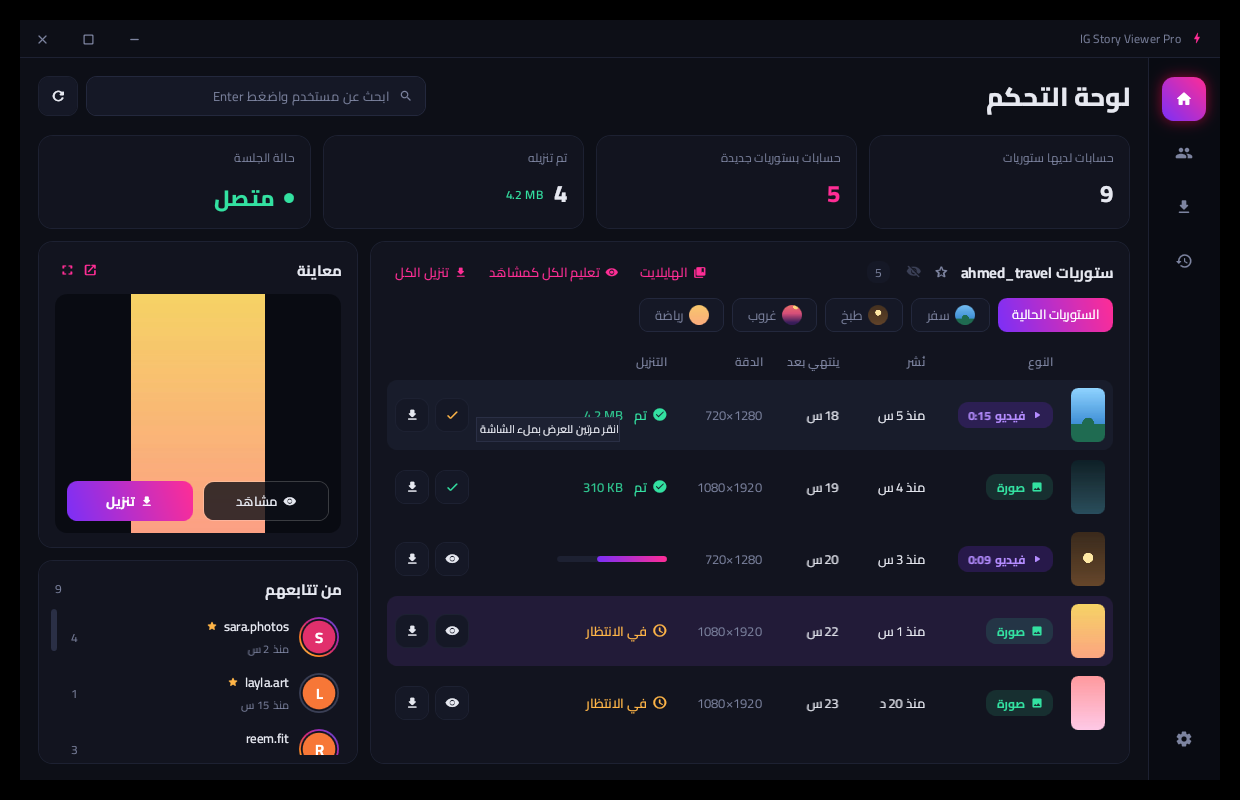
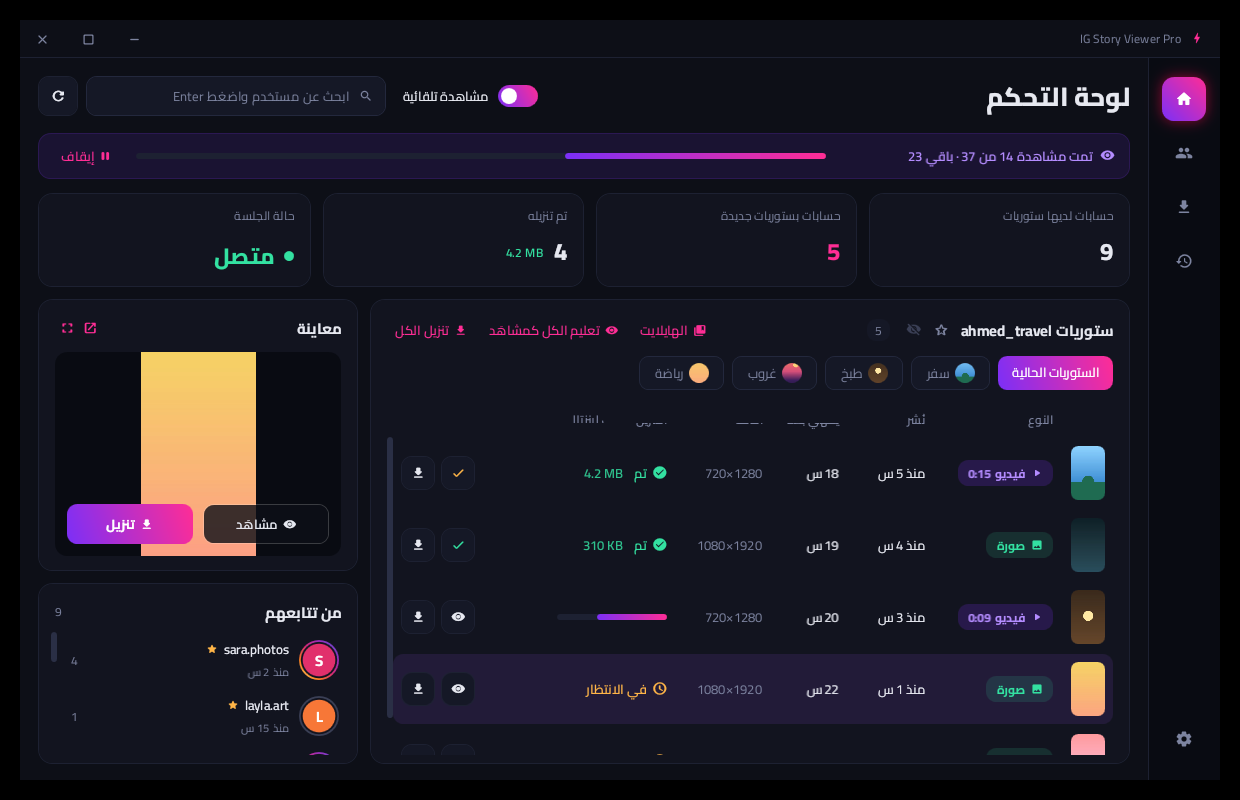
Auto-watch: one-click dashboard toggle and live progress bar
- "Auto-watch" checkbox on the dashboard header (same setting as in
  Settings): once on, every new story of followed accounts is watched
  without any interaction, and new ones after each refresh.
- A pass now covers all accounts with new stories (not just the first
  20), in chunks of 10 that are verified and recorded as they go.
- Progress strip: "watched X of Y · Z remaining", updated after every
  story, with a Stop button; unticking the box stops immediately.

Claude-Session: https://claude.ai/code/session_01Lqr3AeYDn2tMnsFmqKGosk

diff --git a/src/InstagramStoryViewer.Gui/Views/MainWindow.xaml b/src/InstagramStoryViewer.Gui/Views/MainWindow.xaml
@@ -86,12 +86,16 @@
                     <Grid.RowDefinitions>
                         <RowDefinition Height="Auto" />
                         <RowDefinition Height="Auto" />
+                        <RowDefinition Height="Auto" />
                         <RowDefinition Height="*" />
                     </Grid.RowDefinitions>
 
                     <DockPanel Grid.Row="0">
                         <StackPanel DockPanel.Dock="Right" Orientation="Horizontal">
-                            <TextBox Style="{StaticResource SearchBox}" Width="340" Tag="ابحث عن مستخدم واضغط Enter"
+                            <!-- one-click auto-watch: watches every new story without any interaction -->
+                            <CheckBox IsChecked="{Binding AutoWatchNew}" Content="مشاهدة تلقائية" VerticalAlignment="Center" Margin="0,0,16,0"
+                                      ToolTip="عند التفعيل يشاهد البرنامج كل الستوريات الجديدة لمن تتابعهم تلقائياً، ثم يكمل مع كل جديد" />
+                            <TextBox Style="{StaticResource SearchBox}" Width="300" Tag="ابحث عن مستخدم واضغط Enter"
                                      Text="{Binding SearchText, UpdateSourceTrigger=PropertyChanged}">
                                 <TextBox.InputBindings>
                                     <KeyBinding Key="Enter" Command="{Binding SearchCommand}" />
@@ -111,14 +115,7 @@
                                     <TextBlock Text="{Binding UpdateText}" FontSize="12" />
                                 </StackPanel>
                             </Button>
-                            <Border Margin="14,0,0,0" CornerRadius="10" Padding="10,3" VerticalAlignment="Center" Background="#337B2FF7"
-                                    Visibility="{Binding IsAutoWatching, Converter={StaticResource Vis}}">
-                                <StackPanel Orientation="Horizontal">
-                                    <TextBlock Style="{StaticResource Icon}" Text="&#xE8F4;" FontSize="13" Foreground="{StaticResource VideoPillText}" Margin="0,0,6,0" />
-                                    <TextBlock Text="مشاهدة تلقائية..." FontSize="12" FontWeight="SemiBold" Foreground="{StaticResource VideoPillText}" />
-                                </StackPanel>
-                            </Border>
-                            <Border Margin="8,0,0,0" CornerRadius="10" Padding="10,3" VerticalAlignment="Center" Background="#33FF2D95"
+                            <Border Margin="14,0,0,0" CornerRadius="10" Padding="10,3" VerticalAlignment="Center" Background="#33FF2D95"
                                     Visibility="{Binding IsAutoLiking, Converter={StaticResource Vis}}">
                                 <StackPanel Orientation="Horizontal">
                                     <TextBlock Style="{StaticResource Icon}" Text="&#xE87D;" FontSize="13" Foreground="{StaticResource PinkBrush}" Margin="0,0,6,0" />
@@ -128,8 +125,29 @@
                         </StackPanel>
                     </DockPanel>
 
+                    <!-- auto-watch progress (only while it runs) -->
+                    <Border Grid.Row="1" Margin="0,12,0,0" CornerRadius="12" Padding="14,8" Background="#1F7B2FF7"
+                            BorderBrush="#447B2FF7" BorderThickness="1"
+                            Visibility="{Binding IsAutoWatching, Converter={StaticResource Vis}}">
+                        <DockPanel>
+                            <Button DockPanel.Dock="Right" Style="{StaticResource LinkButton}" Command="{Binding StopAutoWatchCommand}" Padding="8,2">
+                                <StackPanel Orientation="Horizontal">
+                                    <TextBlock Style="{StaticResource Icon}" Text="&#xE034;" FontSize="14" Margin="0,0,4,0" />
+                                    <TextBlock Text="إيقاف" />
+                                </StackPanel>
+                            </Button>
+                            <StackPanel DockPanel.Dock="Left" Orientation="Horizontal" VerticalAlignment="Center">
+                                <TextBlock Style="{StaticResource Icon}" Text="&#xE8F4;" FontSize="15" Foreground="{StaticResource VideoPillText}" Margin="0,0,8,0" />
+                                <TextBlock Text="{Binding AutoWatchProgressText}" FontWeight="SemiBold" Foreground="{StaticResource VideoPillText}"
+                                           VerticalAlignment="Center" MinWidth="250" />
+                            </StackPanel>
+                            <ProgressBar Height="6" Margin="16,0" VerticalAlignment="Center"
+                                         Maximum="{Binding AutoWatchTotal}" Value="{Binding AutoWatchDone, Mode=OneWay}" />
+                        </DockPanel>
+                    </Border>
+
                     <!-- stats -->
-                    <Grid Grid.Row="1" Margin="0,14,0,0">
+                    <Grid Grid.Row="2" Margin="0,14,0,0">
                         <Grid.ColumnDefinitions>
                             <ColumnDefinition /><ColumnDefinition /><ColumnDefinition /><ColumnDefinition />
                         </Grid.ColumnDefinitions>
@@ -191,7 +209,7 @@
                     </Grid>
 
                     <!-- main area -->
-                    <Grid Grid.Row="2" Margin="0,12,0,0">
+                    <Grid Grid.Row="3" Margin="0,12,0,0">
                         <Grid.ColumnDefinitions>
                             <ColumnDefinition Width="*" />
                             <ColumnDefinition Width="12" />

diff --git a/src/InstagramStoryViewer.Gui/ViewModels/MainViewModel.Watch.cs b/src/InstagramStoryViewer.Gui/ViewModels/MainViewModel.Watch.cs
@@ -68,13 +68,13 @@ public sealed partial class MainViewModel
     /// Every attempt is written to the watch history. Returns how many were shown and not contradicted
     /// by Instagram (verified, or unknown when Instagram gave no "seen" marker).
     /// </summary>
-    private async Task<int> WatchAsync(IReadOnlyList<WatchTarget> targets, WatchMode mode)
+    private async Task<int> WatchAsync(IReadOnlyList<WatchTarget> targets, WatchMode mode, Action<int>? onShown = null)
     {
         if (_client is null || targets.Count == 0) return 0;
         var urls = targets.Select(t => StoryUrl(t.Username, t.Item)).ToList();
         AppLog.Info($"Watch start: {targets.Count} stories, mode {mode}");
 
-        var shown = await _dialogs.WatchStoriesAsync(_client.Cookies.ToHeader(), urls, background: mode != WatchMode.Manual);
+        var shown = await _dialogs.WatchStoriesAsync(_client.Cookies.ToHeader(), urls, background: mode != WatchMode.Manual, onShown);
         var verified = await VerifySeenAsync(targets.Where((_, i) => i < shown.Count && shown[i]).ToList());
 
         var records = new List<WatchRecord>();
@@ -189,19 +189,57 @@ public sealed partial class MainViewModel
     /// the daily limit, outside quiet hours and never for excluded accounts. Stories newer than the
     /// reel's "seen" marker are the unseen ones.
     /// </summary>
+    private const int AutoWatchChunk = 10;
+    private CancellationTokenSource? _autoWatchCts;
+
+    // Live progress of the running auto-watch (shown on the dashboard).
+    [ObservableProperty]
+    [NotifyPropertyChangedFor(nameof(AutoWatchProgressText), nameof(AutoWatchRemaining))]
+    private int _autoWatchDone;
+
+    [ObservableProperty]
+    [NotifyPropertyChangedFor(nameof(AutoWatchProgressText), nameof(AutoWatchRemaining))]
+    private int _autoWatchTotal;
+
+    public int AutoWatchRemaining => Math.Max(0, AutoWatchTotal - AutoWatchDone);
+
+    public string AutoWatchProgressText => AutoWatchTotal == 0
+        ? "جاري تجهيز قائمة الستوريات..."
+        : $"تمت مشاهدة {AutoWatchDone} من {AutoWatchTotal} · باقي {AutoWatchRemaining}";
+
+    /// <summary>Stops the running auto-watch immediately (the setting stays on for the next refresh).</summary>
+    [RelayCommand]
+    private void StopAutoWatch()
+    {
+        _autoWatchCts?.Cancel();
+        _dialogs.StopWatching();
+    }
+
+    /// <summary>
+    /// Background auto-watch: plays every unseen story of followed accounts in the corner window, without
+    /// any interaction, in chunks of <see cref="AutoWatchChunk"/> (each chunk is verified and recorded before
+    /// the next). Bounded by the daily limit, quiet hours and the exclusion list. Stories newer than the
+    /// reel's "seen" marker are the unseen ones.
+    /// </summary>
     private async Task RunAutoWatchAsync()
     {
         if (!AutoWatchNew || IsAutoWatching || _client is null || IsQuietNow) return;
         var budget = AutoWatchBudget;
         if (budget == 0) return;
 
-        var candidates = TrayUsers.Where(u => u.HasUnseen && !IsExcluded(u.UserId)).Take(20).ToList();
+        var candidates = TrayUsers.Where(u => u.HasUnseen && !IsExcluded(u.UserId)).ToList();
         if (candidates.Count == 0) return;
 
+        _autoWatchCts = CancellationTokenSource.CreateLinkedTokenSource(_lifetimeCts.Token);
+        var ct = _autoWatchCts.Token;
+        AutoWatchDone = 0;
+        AutoWatchTotal = 0;
         IsAutoWatching = true;
+        var watchedTotal = 0;
         try
         {
-            var reels = await _client.GetStoriesForUsersAsync(candidates.Select(t => t.UserId), _lifetimeCts.Token);
+            // One reels request per 20 accounts gives the full list (and the total for the progress bar).
+            var reels = await _client.GetStoriesForUsersAsync(candidates.Select(t => t.UserId), ct);
             var queue = new List<WatchTarget>();
             foreach (var reel in reels)
             {
@@ -212,21 +250,24 @@ public sealed partial class MainViewModel
                     queue.Add(new WatchTarget(user.Username, user.UserId, item, Stories.FirstOrDefault(r => r.Item.Pk == item.Pk)));
             }
             queue = queue.Take(budget).ToList();
+            AutoWatchTotal = queue.Count;
             if (queue.Count == 0) return;
+            AppLog.Info($"Auto-watch: {queue.Count} stories from {candidates.Count} accounts");
 
-            var watched = await WatchAsync(queue, WatchMode.Auto);
-            CountAutoWatched(watched);
-
-            // Accounts whose every queued story counted are now fully seen.
-            var history = History.Take(queue.Count).ToList();
-            foreach (var user in candidates)
+            foreach (var chunk in queue.Chunk(AutoWatchChunk))
             {
-                var mine = history.Where(h => h.Username == user.Username).ToList();
-                if (mine.Count > 0 && mine.All(h => h.Outcome is WatchOutcome.Verified or WatchOutcome.Shown))
-                    user.HasUnseen = false;
+                // Turned off, stopped, or quiet hours started: stop between chunks.
+                if (ct.IsCancellationRequested || !AutoWatchNew || IsQuietNow) break;
+
+                var doneBefore = AutoWatchDone;
+                var watched = await WatchAsync(chunk, WatchMode.Auto, shownSoFar => AutoWatchDone = doneBefore + shownSoFar);
+                AutoWatchDone = doneBefore + chunk.Length; // count skipped/unavailable ones as processed too
+                watchedTotal += watched;
+                CountAutoWatched(watched);
+                MarkFullyWatchedAccounts(chunk);
             }
-            UnseenAccounts = TrayUsers.Count(u => u.HasUnseen);
-            if (watched > 0) ShowToast($"المشاهدة التلقائية: شوهد {watched} ستوري");
+
+            if (watchedTotal > 0) _dialogs.Notify("المشاهدة التلقائية", $"تمت مشاهدة {watchedTotal} ستوري");
         }
         catch (InstagramApiException ex)
         {
@@ -234,12 +275,26 @@ public sealed partial class MainViewModel
         }
         catch (OperationCanceledException)
         {
-            // signed out
+            // stopped or signed out
         }
         finally
         {
             IsAutoWatching = false;
+            AppLog.Info($"Auto-watch finished: {watchedTotal} watched, {AutoWatchDone}/{AutoWatchTotal} processed");
         }
+    }
+
+    /// <summary>Accounts whose every queued story counted are no longer shown as having new stories.</summary>
+    private void MarkFullyWatchedAccounts(IReadOnlyList<WatchTarget> chunk)
+    {
+        var recent = History.Take(chunk.Count).ToList();
+        foreach (var name in chunk.Select(c => c.Username).Distinct())
+        {
+            var mine = recent.Where(h => h.Username == name).ToList();
+            if (mine.Count == 0 || !mine.All(h => h.Outcome is WatchOutcome.Verified or WatchOutcome.Shown)) continue;
+            foreach (var u in TrayUsers.Where(u => u.Username == name)) u.HasUnseen = false;
+        }
+        UnseenAccounts = TrayUsers.Count(u => u.HasUnseen);
     }
 
     private void UpdateTraySeen(string username)

diff --git a/src/InstagramStoryViewer.Gui/ViewModels/MainViewModel.cs b/src/InstagramStoryViewer.Gui/ViewModels/MainViewModel.cs
@@ -23,7 +23,12 @@ public interface IDialogService
     /// </summary>
     /// <param name="background">Run in the small corner window without stealing focus (auto-watch).</param>
     /// <returns>For each URL, whether the story was actually shown.</returns>
-    Task<IReadOnlyList<bool>> WatchStoriesAsync(string cookieHeader, IReadOnlyList<string> storyUrls, bool background);
+    /// <param name="onShown">Called after each story is shown, with the number shown so far in this batch.</param>
+    Task<IReadOnlyList<bool>> WatchStoriesAsync(string cookieHeader, IReadOnlyList<string> storyUrls, bool background,
+        Action<int>? onShown = null);
+
+    /// <summary>Stops the watch batch that is currently playing.</summary>
+    void StopWatching();
 
     /// <summary>Likes stories/posts in the small corner window (background, never steals focus).</summary>
     Task<IReadOnlyList<LikeOutcome>> LikeAsync(string cookieHeader, IReadOnlyList<LikeRequest> requests);
@@ -218,6 +223,7 @@ public sealed partial class MainViewModel : ObservableObject, IDisposable
         SaveSettings();
         ScheduleTrayRefresh();
         if (value) _ = SafeAsync(() => RunAutoWatchAsync());
+        else if (IsAutoWatching) StopAutoWatch(); // unticking stops the running pass right away
     }
 
     partial void OnAutoWatchDailyLimitChanged(int value)

diff --git a/src/InstagramStoryViewer.Gui/Views/StoryWatchWindow.xaml.cs b/src/InstagramStoryViewer.Gui/Views/StoryWatchWindow.xaml.cs
@@ -79,8 +79,12 @@ public partial class StoryWatchWindow : Window
 
     private void Stop_Click(object sender, RoutedEventArgs e) => _batchCts.Cancel();
 
+    /// <summary>Stops the batch that is running (same as the window's Stop button).</summary>
+    public void StopCurrent() => _batchCts.Cancel();
+
     /// <summary>Plays the given stories in order. Returns, per URL, whether it was shown.</summary>
-    public async Task<IReadOnlyList<bool>> PlayAsync(string cookieHeader, IReadOnlyList<string> urls)
+    /// <param name="onShown">Called after each story is shown, with the number shown so far (live progress).</param>
+    public async Task<IReadOnlyList<bool>> PlayAsync(string cookieHeader, IReadOnlyList<string> urls, Action<int>? onShown = null)
     {
         _batchCts = new CancellationTokenSource();
         var ct = _batchCts.Token;
@@ -111,6 +115,7 @@ public partial class StoryWatchWindow : Window
                 // Vary the dwell time slightly, like a person would.
                 await Task.Delay(ViewDuration + TimeSpan.FromMilliseconds(Random.Shared.Next(0, 1500)), ct);
                 shown[i] = true;
+                onShown?.Invoke(shown.Count(x => x));
             }
         }
         catch (Exception ex) when (ex is OperationCanceledException or ObjectDisposedException or InvalidOperationException

diff --git a/src/InstagramStoryViewer.Gui/Views/MainWindow.xaml.cs b/src/InstagramStoryViewer.Gui/Views/MainWindow.xaml.cs
@@ -308,8 +308,14 @@ public partial class MainWindow : Window, IDialogService
     /// same window. It has no Owner on purpose, so background watching keeps working while this window is
     /// minimised.
     /// </summary>
-    public Task<IReadOnlyList<bool>> WatchStoriesAsync(string cookieHeader, IReadOnlyList<string> storyUrls, bool background) =>
-        RunInWatcherAsync(w => w.PlayAsync(cookieHeader, storyUrls), background);
+    public Task<IReadOnlyList<bool>> WatchStoriesAsync(string cookieHeader, IReadOnlyList<string> storyUrls, bool background,
+        Action<int>? onShown = null) =>
+        RunInWatcherAsync(w => w.PlayAsync(cookieHeader, storyUrls, onShown), background);
+
+    public void StopWatching()
+    {
+        if (_watcher is { IsAlive: true }) _watcher.StopCurrent();
+    }
 
     public Task<IReadOnlyList<LikeOutcome>> LikeAsync(string cookieHeader, IReadOnlyList<LikeRequest> requests) =>
         RunInWatcherAsync(w => w.LikeAsync(cookieHeader, requests), background: true);

diff --git a/README.md b/README.md
@@ -41,6 +41,9 @@ The interface is in Arabic (right to left) with a dark "neon dashboard" design.
 ### Watching (marking as seen)
 - **How it works:** the story actually plays in a small embedded-browser window in the corner of the screen, so Instagram records a real view.
 - **Verification:** after watching, the app asks Instagram whether the view was recorded (**confirmed / unconfirmed / failed**).
+- **"Auto-watch" box on the dashboard:**
+  - Turn it on and the app watches every new story from the accounts you follow, with no interaction from you, then keeps up with anything new after each refresh.
+  - A progress bar shows "watched X of Y · Z remaining" and has a Stop button.
 - **Auto-watch (optional):**
   - When you preview a story.
   - Or your followed accounts' new stories, in the background.
